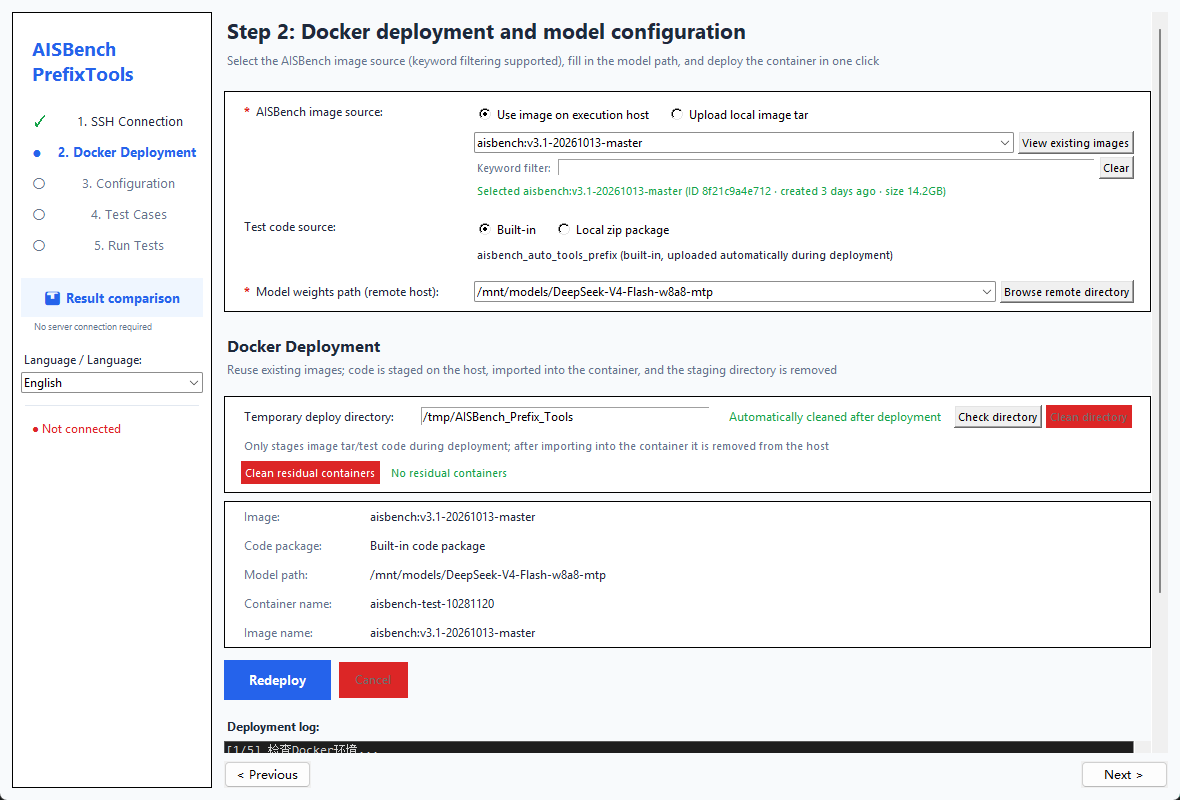
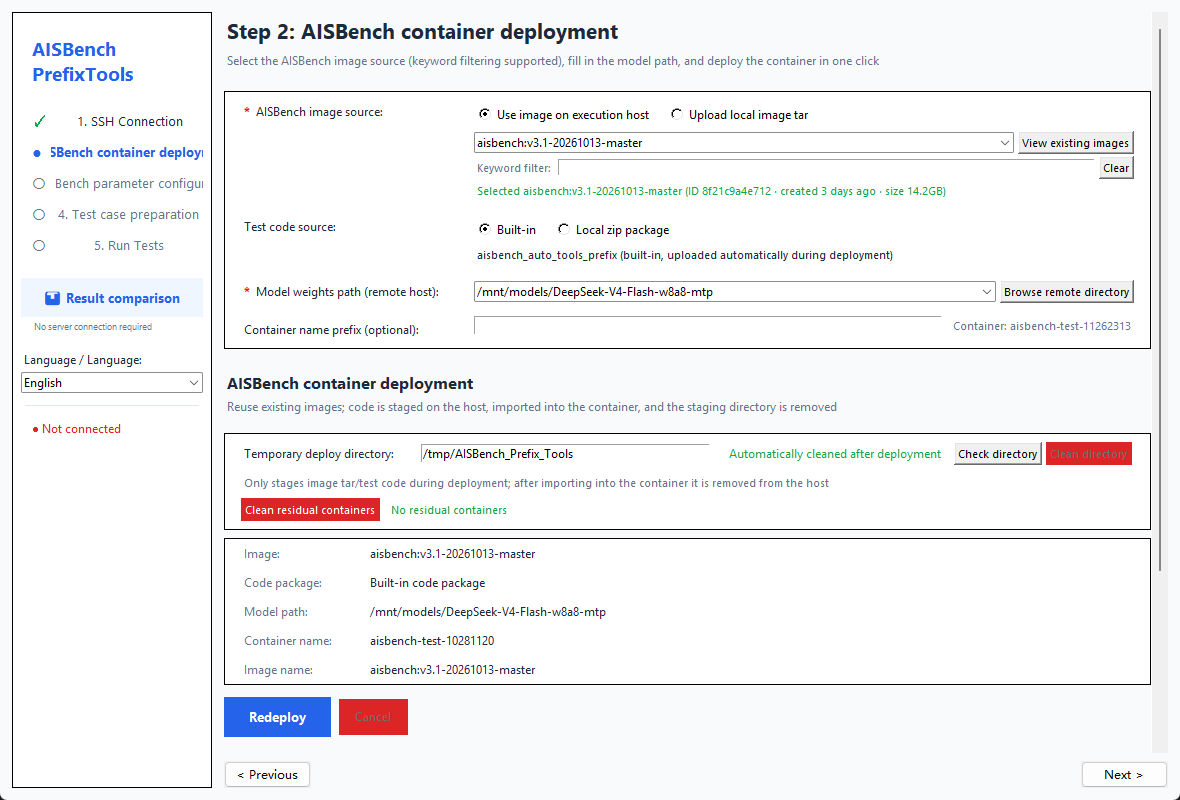
docs: regenerate guide screenshots for new UI and bump cache versions
Regenerated all 7 wizard/result-compare screenshots with the current GUI
so they reflect:
- step 2: renamed AISBench container deployment + container-name prefix
  field with live preview
- step 3: renamed AISBench parameter configuration
- step 4: renamed test case preparation
- step 5: abnormal-alert level/keyword/invert filter bar and
  'open test report' button
- result compare: 'open comparison report' button and renamed export
  report button

Bumped image query strings in docs/index.html to v=20261126 so the
online guide picks up the refreshed images after merge.

diff --git a/docs/index.html b/docs/index.html
@@ -268,7 +268,7 @@ build_exe.bat</code></pre>
   <p>界面控件、弹窗提示（如“下一步”校验、部署与清理确认、结果摘要）、远程日志工具（服务器/日志来源/筛选结果与查看日志窗口）以及状态栏动态消息均随所选语言显示；弹窗按钮（确定/取消/是/否）也由程序自绘并跟随所选语言，不受操作系统语言影响。</p>
   <p>切换语言只改变界面呈现：当前步骤、SSH 登录信息、镜像/模型/配置输入与执行结果都会完整保留，不会跳回第一步。</p>
   <figure class="figure">
-    <img src="images/step2-docker-en-20261106.png?v=20261121" alt="English interface example">
+    <img src="images/step2-docker-en-20261106.png?v=20261126" alt="English interface example">
     <figcaption>English 界面示例：步骤 2 的 AISBench 容器部署页面</figcaption>
   </figure>
 </section>
@@ -282,7 +282,7 @@ build_exe.bat</code></pre>
     连接成功后工具会自动扫描本工具创建的容器；如发现上次退出未清理的 <code>aisbench-test-*</code> 容器，会提示打开清理窗口勾选删除。
   </div>
   <figure class="figure">
-    <img src="images/step1-connection-20261106.png?v=20261121" alt="步骤 1：SSH 连接执行机界面">
+    <img src="images/step1-connection-20261106.png?v=20261126" alt="步骤 1：SSH 连接执行机界面">
     <figcaption>连接成功状态示例：192.168.1.30:22，用户 root，密码认证</figcaption>
   </figure>
   <table>
@@ -305,7 +305,7 @@ build_exe.bat</code></pre>
   <span class="step-badge">STEP 2 / 5</span>
   <p>点击“查看已有镜像”读取执行机 Docker 镜像列表并优先复用 AISBench 镜像，镜像较多时可用关键词筛选实时过滤；未发现可用镜像时自动切换为上传 tar 包。本页只需填写镜像来源与模型路径，模型名称、vLLM 服务地址与 API Key 在步骤 3 的 AISBench 参数配置中填写。</p>
   <figure class="figure">
-    <img src="images/step2-docker-20261106.png?v=20261121" alt="步骤 2：AISBench 容器部署界面">
+    <img src="images/step2-docker-20261106.png?v=20261126" alt="步骤 2：AISBench 容器部署界面">
     <figcaption>部署完成示例：复用已有镜像启动容器，测试代码已导入容器，宿主机临时目录自动清理</figcaption>
   </figure>
   <table>
@@ -350,7 +350,7 @@ build_exe.bat</code></pre>
   <span class="step-badge">STEP 3 / 5</span>
   <p>模型名称、vLLM 服务地址等参数在本页填写（默认留空，必填项以红色 <code>*</code> 标记）。确认或修改配置后点击“保存配置到容器”，配置会直接写入容器内部工作区；再用“验证配置”回读容器内文件并与界面值逐项比对。</p>
   <figure class="figure">
-    <img src="images/step3-config-20261106.png?v=20261121" alt="步骤 3：AISBench 参数配置界面">
+    <img src="images/step3-config-20261106.png?v=20261126" alt="步骤 3：AISBench 参数配置界面">
     <figcaption>配置示例：ds 模型、远程模型路径、vLLM 服务 192.168.1.30:8000</figcaption>
   </figure>
   <table>
@@ -371,7 +371,7 @@ build_exe.bat</code></pre>
   <span class="step-badge">STEP 4 / 5</span>
   <p>填写单个 DP 组 KV cache、DP 组数、模型最大上下文与前缀命中率，选择输入和输出长度后点击“生成测试用例”。表格会给出推荐请求数、前缀数量、最小请求数、并发数和 KV 使用率。</p>
   <figure class="figure">
-    <img src="images/step4-testcases-20261106.png?v=20261121" alt="步骤 4：测试用例准备界面">
+    <img src="images/step4-testcases-20261106.png?v=20261126" alt="步骤 4：测试用例准备界面">
     <figcaption>计算示例：单 DP KV cache 198469，DP 4，输入 16K/32K，输出 512/1024；前缀数量默认等于请求数</figcaption>
   </figure>
   <table>
@@ -405,7 +405,7 @@ build_exe.bat</code></pre>
   <span class="step-badge">STEP 5 / 5</span>
   <p>确认本地结果保存目录后，点击“执行测试 → 生成CSV”。工具会将测试脚本写入容器内部、先检查模型路径、逐用例执行、从容器下载日志并在本地解析 CSV。</p>
   <figure class="figure">
-    <img src="images/step5-execute-20261106.png?v=20261121" alt="步骤 5：测试执行与结果摘要界面">
+    <img src="images/step5-execute-20261106.png?v=20261126" alt="步骤 5：测试执行与结果摘要界面">
     <figcaption>执行完成示例：4 个用例的吞吐、延迟与命中率摘要，容器日志已下载到本地</figcaption>
   </figure>
   <div class="flow">
@@ -467,7 +467,7 @@ build_exe.bat</code></pre>
   <h2>结果对比分析</h2>
   <p>结果对比分析是独立入口，不需要连接执行服务器。可以从左侧边栏打开，也可以在步骤 5 的结果摘要右侧打开。</p>
   <figure class="figure">
-    <img src="images/result-compare-20261106.png?v=20261121" alt="结果对比分析界面">
+    <img src="images/result-compare-20261106.png?v=20261126" alt="结果对比分析界面">
     <figcaption>选择两个结果 CSV 后，可自定义 A/B 标注并生成差异表格、柱状图和图片导出；窗口支持全屏，表格支持拖拽平移</figcaption>
   </figure>
   <h3>使用步骤</h3>
